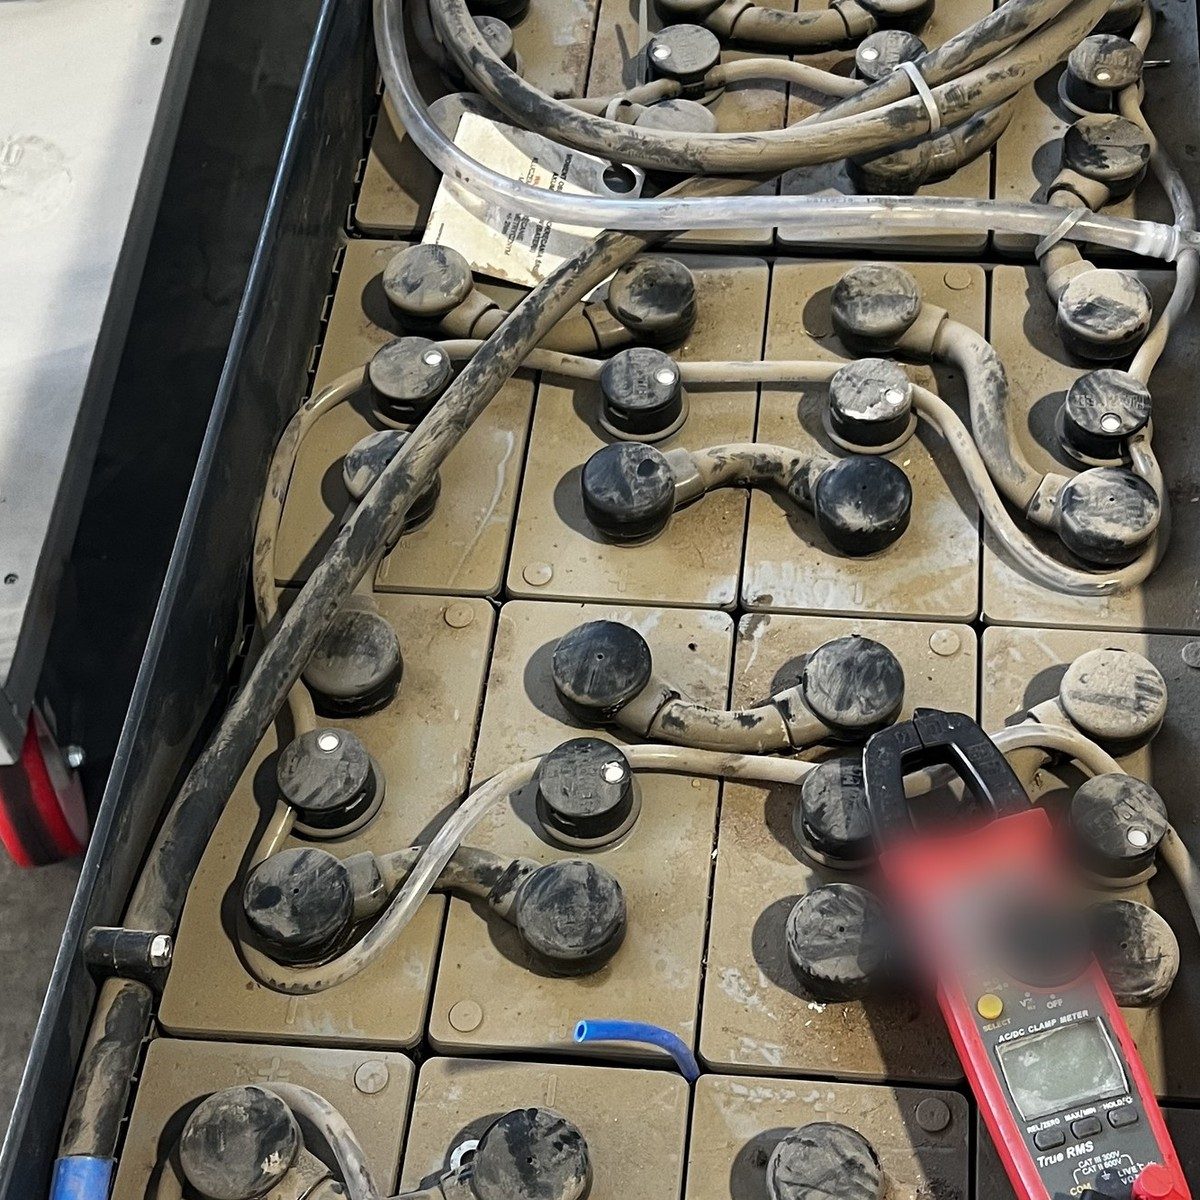
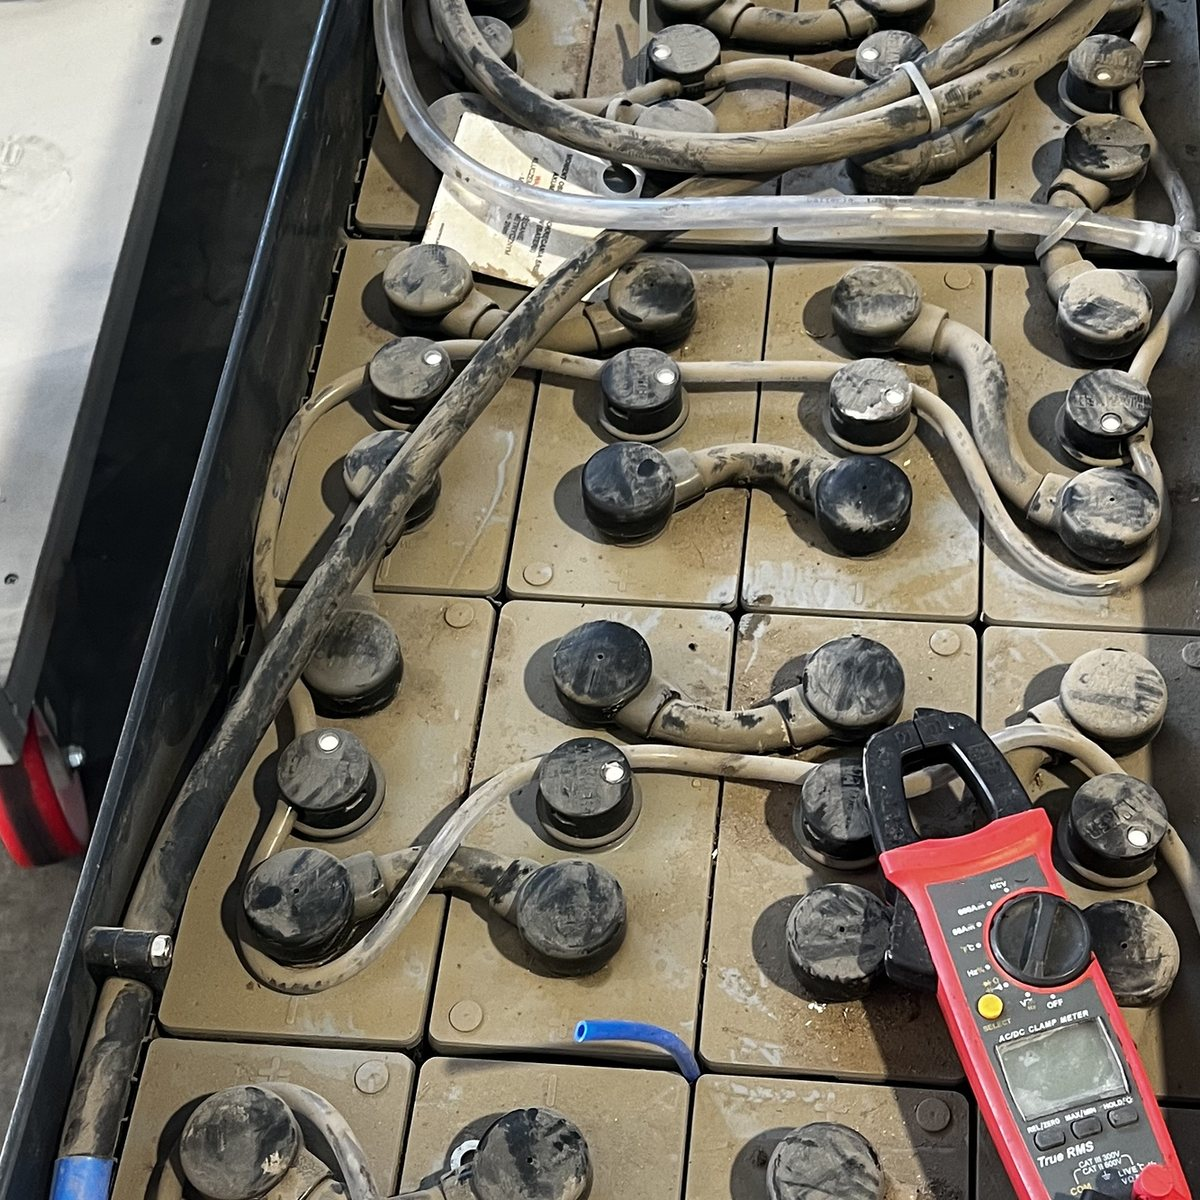
fix(photos): remove wordmarks letter by letter instead of patching them, drop unused photos
The rectangle fills on the index, serwis and bezplatna-konsultacja heroes, the clamp meter and
the battery-under-regeneration frame read as patches. All five are regenerated from the raw
originals with unchanged framing; hero-regeneration-onsite and hall-regeneration-wide were no
longer referenced by any page.

Changed region(s): [[0.7092, 0.6475, 0.9558, 0.8633]]

diff --git a/src/config/photos.ts b/src/config/photos.ts
@@ -1,8 +1,6 @@
 import type { ImageMetadata } from 'astro';
 
-import heroRegenerationOnsite from '../assets/photos/hero-regeneration-onsite.jpg';
 import batteryUnderRegeneration from '../assets/photos/battery-under-regeneration.jpg';
-import hallRegenerationWide from '../assets/photos/hall-regeneration-wide.jpg';
 import batteryNameplate from '../assets/photos/battery-nameplate.jpg';
 import clampMeterDiagnostics from '../assets/photos/clamp-meter-diagnostics.jpg';
 import openCellsDetail from '../assets/photos/open-cells-detail.jpg';
@@ -42,11 +40,6 @@ export interface Photo {
  * and rating keeps the copy consistent with the retouched frames.
  */
 export const PHOTOS = {
-  heroRegenerationOnsite: {
-    src: heroRegenerationOnsite,
-    alt: 'Urządzenie do regeneracji baterii trakcyjnych podłączone do wózka widłowego w hali klienta, obok laptop z wykresem cyklu ładowania',
-    caption: 'Regeneracja u klienta na hali. Urządzenie pracuje przy wózku, laptop zapisuje przebieg cyklu.',
-  },
   /**
    * Replaced the workshop-bay frame the customer withdrew on 2026-09-17 (LFB-001).
    * The device's model wordmark behind the laptop is masked in post.
@@ -55,12 +48,6 @@ export const PHOTOS = {
     src: batteryUnderRegeneration,
     alt: 'Bateria trakcyjna z podpiętymi przewodami urządzenia do regeneracji, obok laptop z zapisem cyklu',
     caption: 'Regeneracja w toku. Urządzenie prowadzi cykle, laptop zapisuje każdy z nich.',
-  },
-  /** Wide hall frame for the service hero; the manufacturer wordmark on the unit is masked in post. */
-  hallRegenerationWide: {
-    src: hallRegenerationWide,
-    alt: 'Urządzenie do regeneracji i laptop na palecie obok wózka wysokiego składowania w hali klienta',
-    caption: 'Serwis u klienta: urządzenie staje przy wózku, hala pracuje dalej.',
   },
   batteryNameplate: {
     src: batteryNameplate,
@@ -139,10 +126,10 @@ export const PHOTOS = {
   /**
    * Hero-only crops (LFB-005 Position 2), cut fresh from the full-resolution originals at the
    * hero box's own 2.2:1 instead of reusing the content-column files above (those cap out at
-   * 1800-2000px, below the >=2200px a zoomed hero crop needs to stay sharp). Same subjects as
-   * heroRegenerationOnsite / hallRegenerationWide / batteryCellsTopview / cellsConnectorsDetail /
-   * clampMeterDiagnostics above, which stay as they are for their other use in realizacje.astro's
-   * gallery. Script + exact crop boxes: artifacts/lift-baterie/LFB-005/scripts/make_hero_crops.py.
+   * 1800-2000px, below the >=2200px a zoomed hero crop needs to stay sharp). Crop boxes:
+   * artifacts/lift-baterie/LFB-005/scripts/make_hero_crops.py. Wordmarks on the index, serwis and
+   * bezplatna-konsultacja heroes (and on batteryUnderRegeneration / clampMeterDiagnostics) are
+   * removed letter by letter, not covered with patches: artifacts/lift-baterie/LFB-002/retouch/.
    */
   heroIndexRegeneracja: {
     src: heroIndexRegeneracja,
